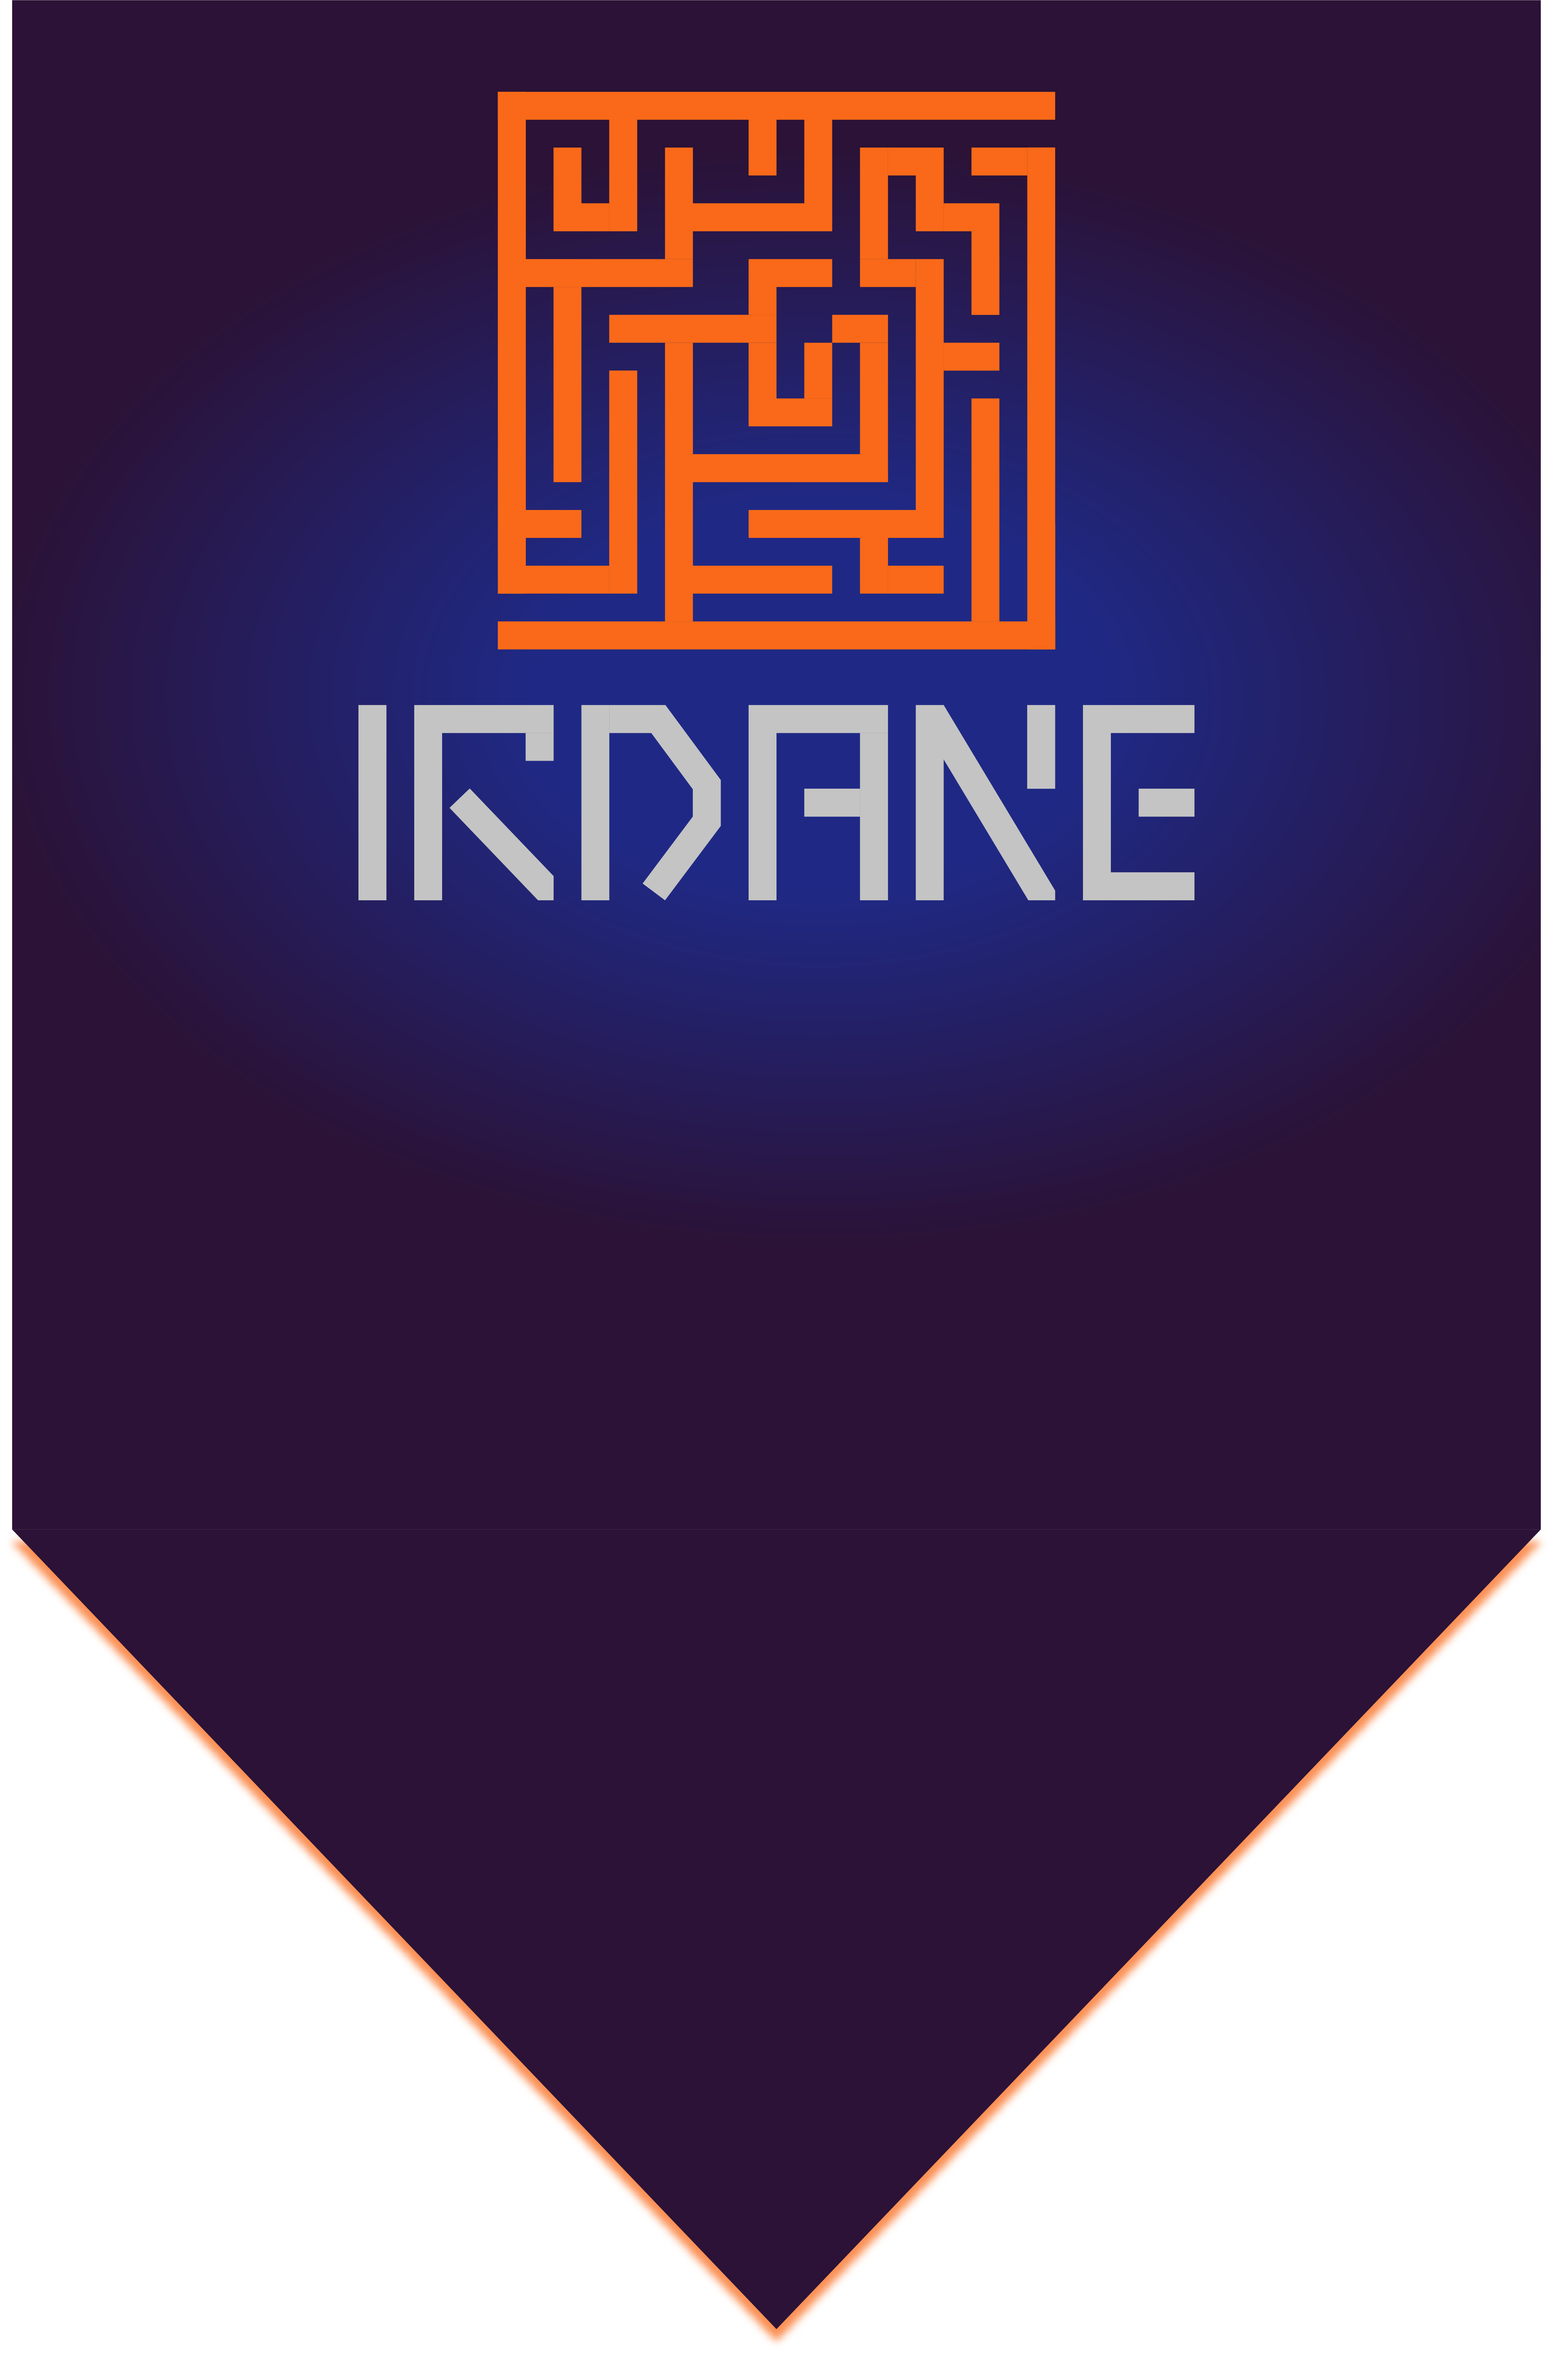
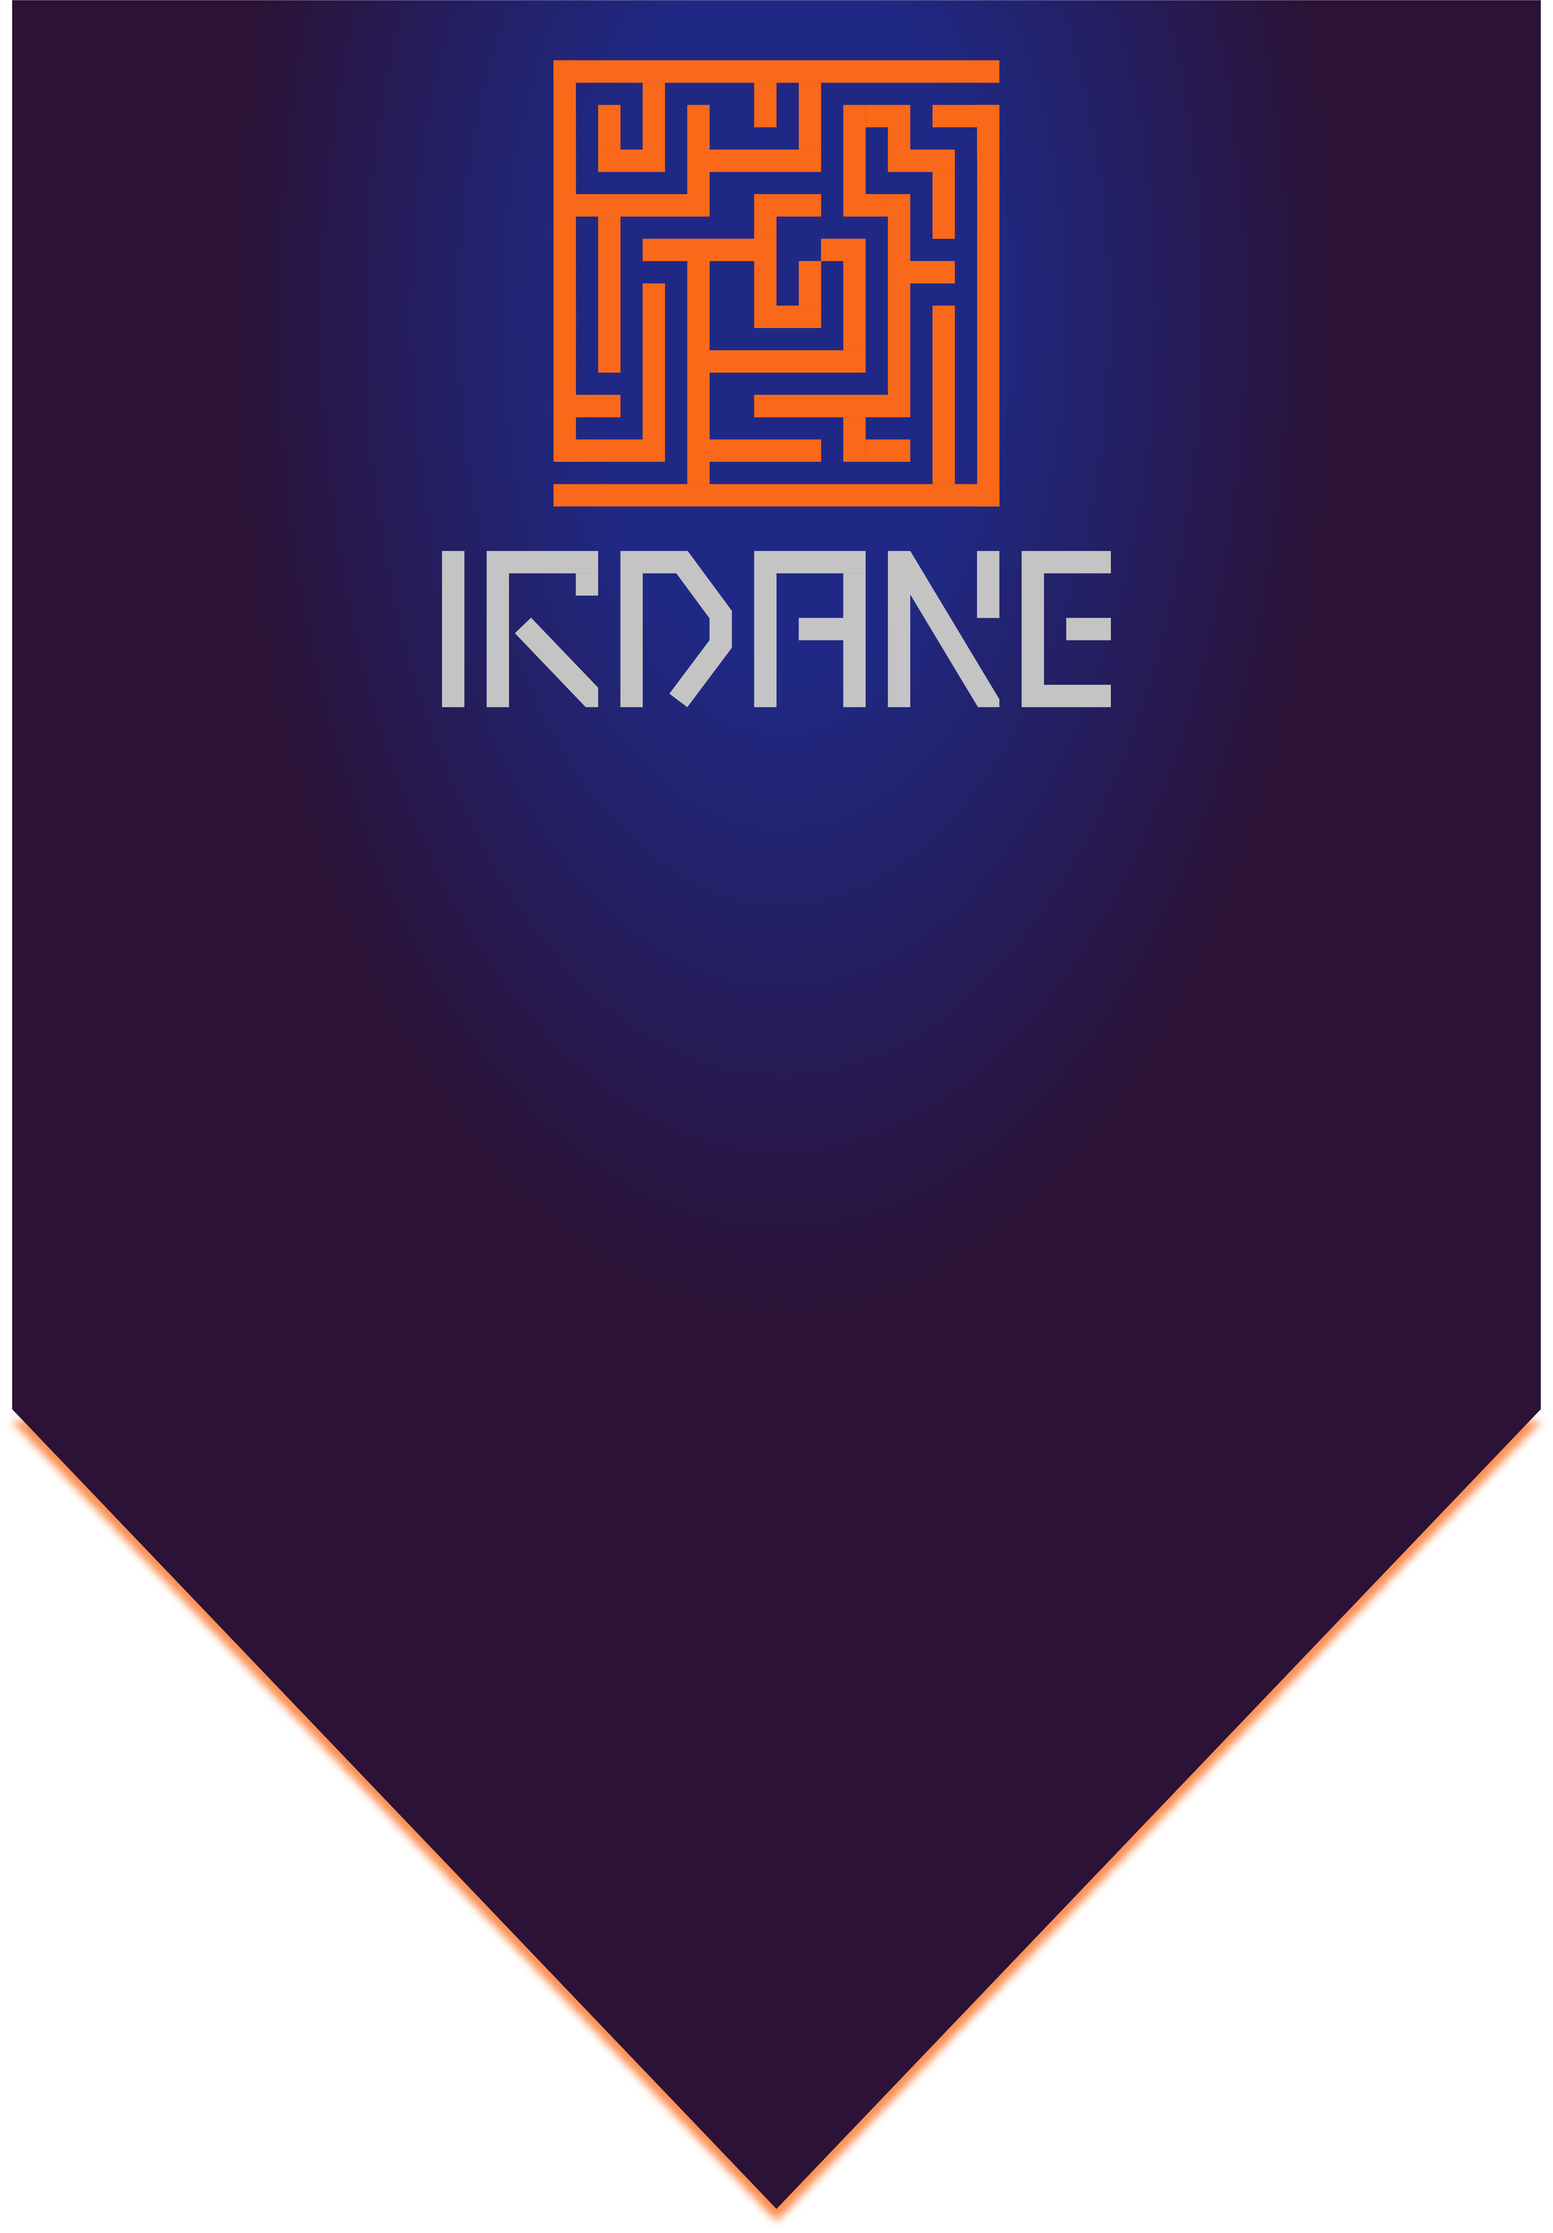
wip

diff --git a/app/assets/stylesheets/pages/_home.scss b/app/assets/stylesheets/pages/_home.scss
@@ -1,5 +1,5 @@
 .banner-home-page {
-  background: linear-gradient(rgba(31, 41, 133, 1), rgba(43, 18, 54, 1));
+  background: linear-gradient(rgba(31, 41, 133, 0.3), rgba(43, 18, 54, 0.3));
   width: 100%;
 }
 
@@ -14,7 +14,7 @@
 
 .wrapper-home {
   background: transparent;
-  height: 550vh;
+  height: 270vh;
   position: relative;
 }
 
@@ -31,15 +31,10 @@
 
 .section-2 {
   position: absolute;
-  top: 230vh;
+  top: 180vh;
   left: 50%;
 }
 
-.section-3 {
-  position: absolute;
-  top: 340vh;
-  left: 50%;
-}
 .card-btn {
   text-align: center;
   margin: 3rem;
@@ -63,10 +58,10 @@
 
 .section-gauche {
   transform: translate(-50%, -50%);
-  height: 100vh;
+  height: 90vh;
   width: 90%;
-  background: $purple;
-  box-shadow: 0.5rem 0.5rem 0.5rem $orange;
+  background: transparent;
+  // box-shadow: 0.5rem 0.5rem 0.5rem $orange;
   display: flex;
   .title {
     text-align: center;
@@ -74,7 +69,14 @@
   p {
     margin: 1rem;
   }
+  .rectangle-cache {
+    position: absolute;
+    height: 100%;
+    width: 30%;
+    background: $purple;
+  }
   .equilibre {
+      height: 90%;
       z-index: 1111;
       width: 40%;
       background: $purple;
@@ -94,19 +96,31 @@
 
   .imagebox {
     width: 60%;
-    height: 100%;
-    background: linear-gradient(rgba(10, 10, 10, 0.1),rgba(10,10,10,0.5)), url('travel-share-2.png') ;
+    height: calc(100% - 2rem);
+    margin-top: 2rem;
+    background: linear-gradient(rgba(10, 10, 10, 0.1),rgba(10,10,10,0.3)), url('travel-share-2.png') ;
     background-size: cover;
     background-position: center;
   }
 }
 
+.section-gauche:after {
+  box-shadow: 0.5rem 0.5rem 0.5rem $orange;
+  position: absolute;
+  content: '';
+  width: 100%;
+  height: calc(100% - 2rem); /* Half of the original height */
+  top: 2rem;
+  left:0;
+  z-index: -1;
+}
+
 .section-droit {
   transform: translate(-50%, -50%);
-  height: 100vh;
+  height: 90vh;
   width: 90%;
-  background: $purple;
-  box-shadow: 0.5rem 0.5rem 0.5rem $orange;
+  background: transparent;
+  // box-shadow: 0.5rem 0.5rem 0.5rem $orange;
   display: flex;
   .title {
     text-align: center;
@@ -114,8 +128,16 @@
   p {
     margin: 1rem;
   }
+  .rectangle-cache {
+    position: absolute;
+    right: 0;
+    height: 100%;
+    width: 30%;
+    background: $purple;
+  }
   .equilibre {
       z-index: 1111;
+      height: 90%;
       width: 40%;
       background: #2b1236;
       position: absolute;
@@ -135,9 +157,52 @@
 
   .imagebox {
     width: 60%;
-    height: 100%;
-    background: linear-gradient(rgba(10, 10, 10, 0.1),rgba(10,10,10,0.5)), url('travel-share-2.png') ;
+    height: calc(100% - 2rem);
+    background: linear-gradient(rgba(10, 10, 10, 0.1),rgba(10,10,10,0.3)), url('Test Logo Inkind.png') ;
     background-size: cover;
     background-position: center;
+    margin-top: 2rem;
+  }
+}
+
+.section-droit:after {
+  box-shadow: -0.5rem 0.5rem 0.5rem $orange;
+  position: absolute;
+  content: '';
+  width: 100%;
+  height: calc(100% - 2rem); /* Half of the original height */
+  top: 2rem;
+  left:0;
+  z-index: -1;
+}
+
+.separateur-haut {
+  width: 100%;
+  // background: url("separateur haut.png");
+  background-size: cover;
+  background-repeat: no-repeat;
+  background-position: center;
+}
+
+.separateur-bas {
+  // height: 50vh;
+  width: 100%;
+  // background: url("separateur bas.png");
+  background-size: contain;
+  background-repeat: no-repeat;
+  background-position: center;
+}
+.contact-work {
+  .content {
+    width: 100%;
+    height:30vh;
+    background: $purple;
+    display: flex;
+  }
+  .top-left {
+
+  }
+  .top-right {
+
   }
 }
